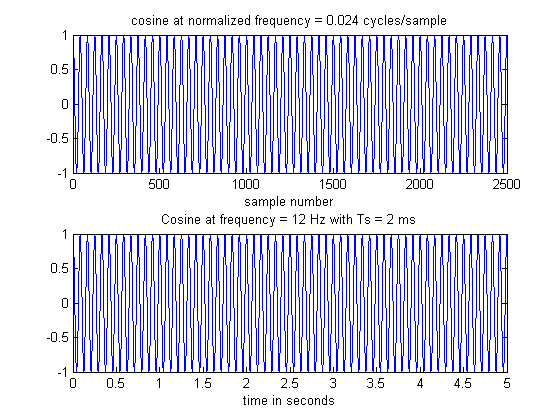
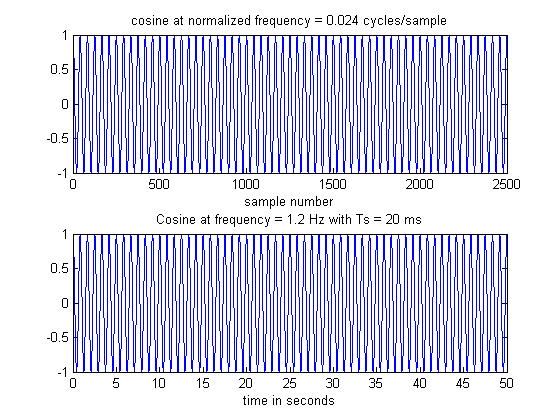
edit 2nd time

diff --git a/lab/lab01sub.md b/lab/lab01sub.md
@@ -438,7 +438,7 @@ __(e)__ What parameters values should be used for `getCosSig` and `plotCosSig`?
 		```
 		5. When the 3rd prompt appears, type the correct number, which is $$T=0.02\:\left[\tfrac{\text{sec}}{\text{sample}}\right]$$
 		```
-		>> Enter sample time interval in seconds: 0.002
+		>> Enter sample time interval in seconds: 0.02
 		```
 ![fig08](lab01sub/lab01sub-fig08.png)
 - For $$\nu=0.1$$, find the correct parameters to plot $$0.4\:\text{sec}$$ of a $$5\:\text{Hz}$$ signal.
